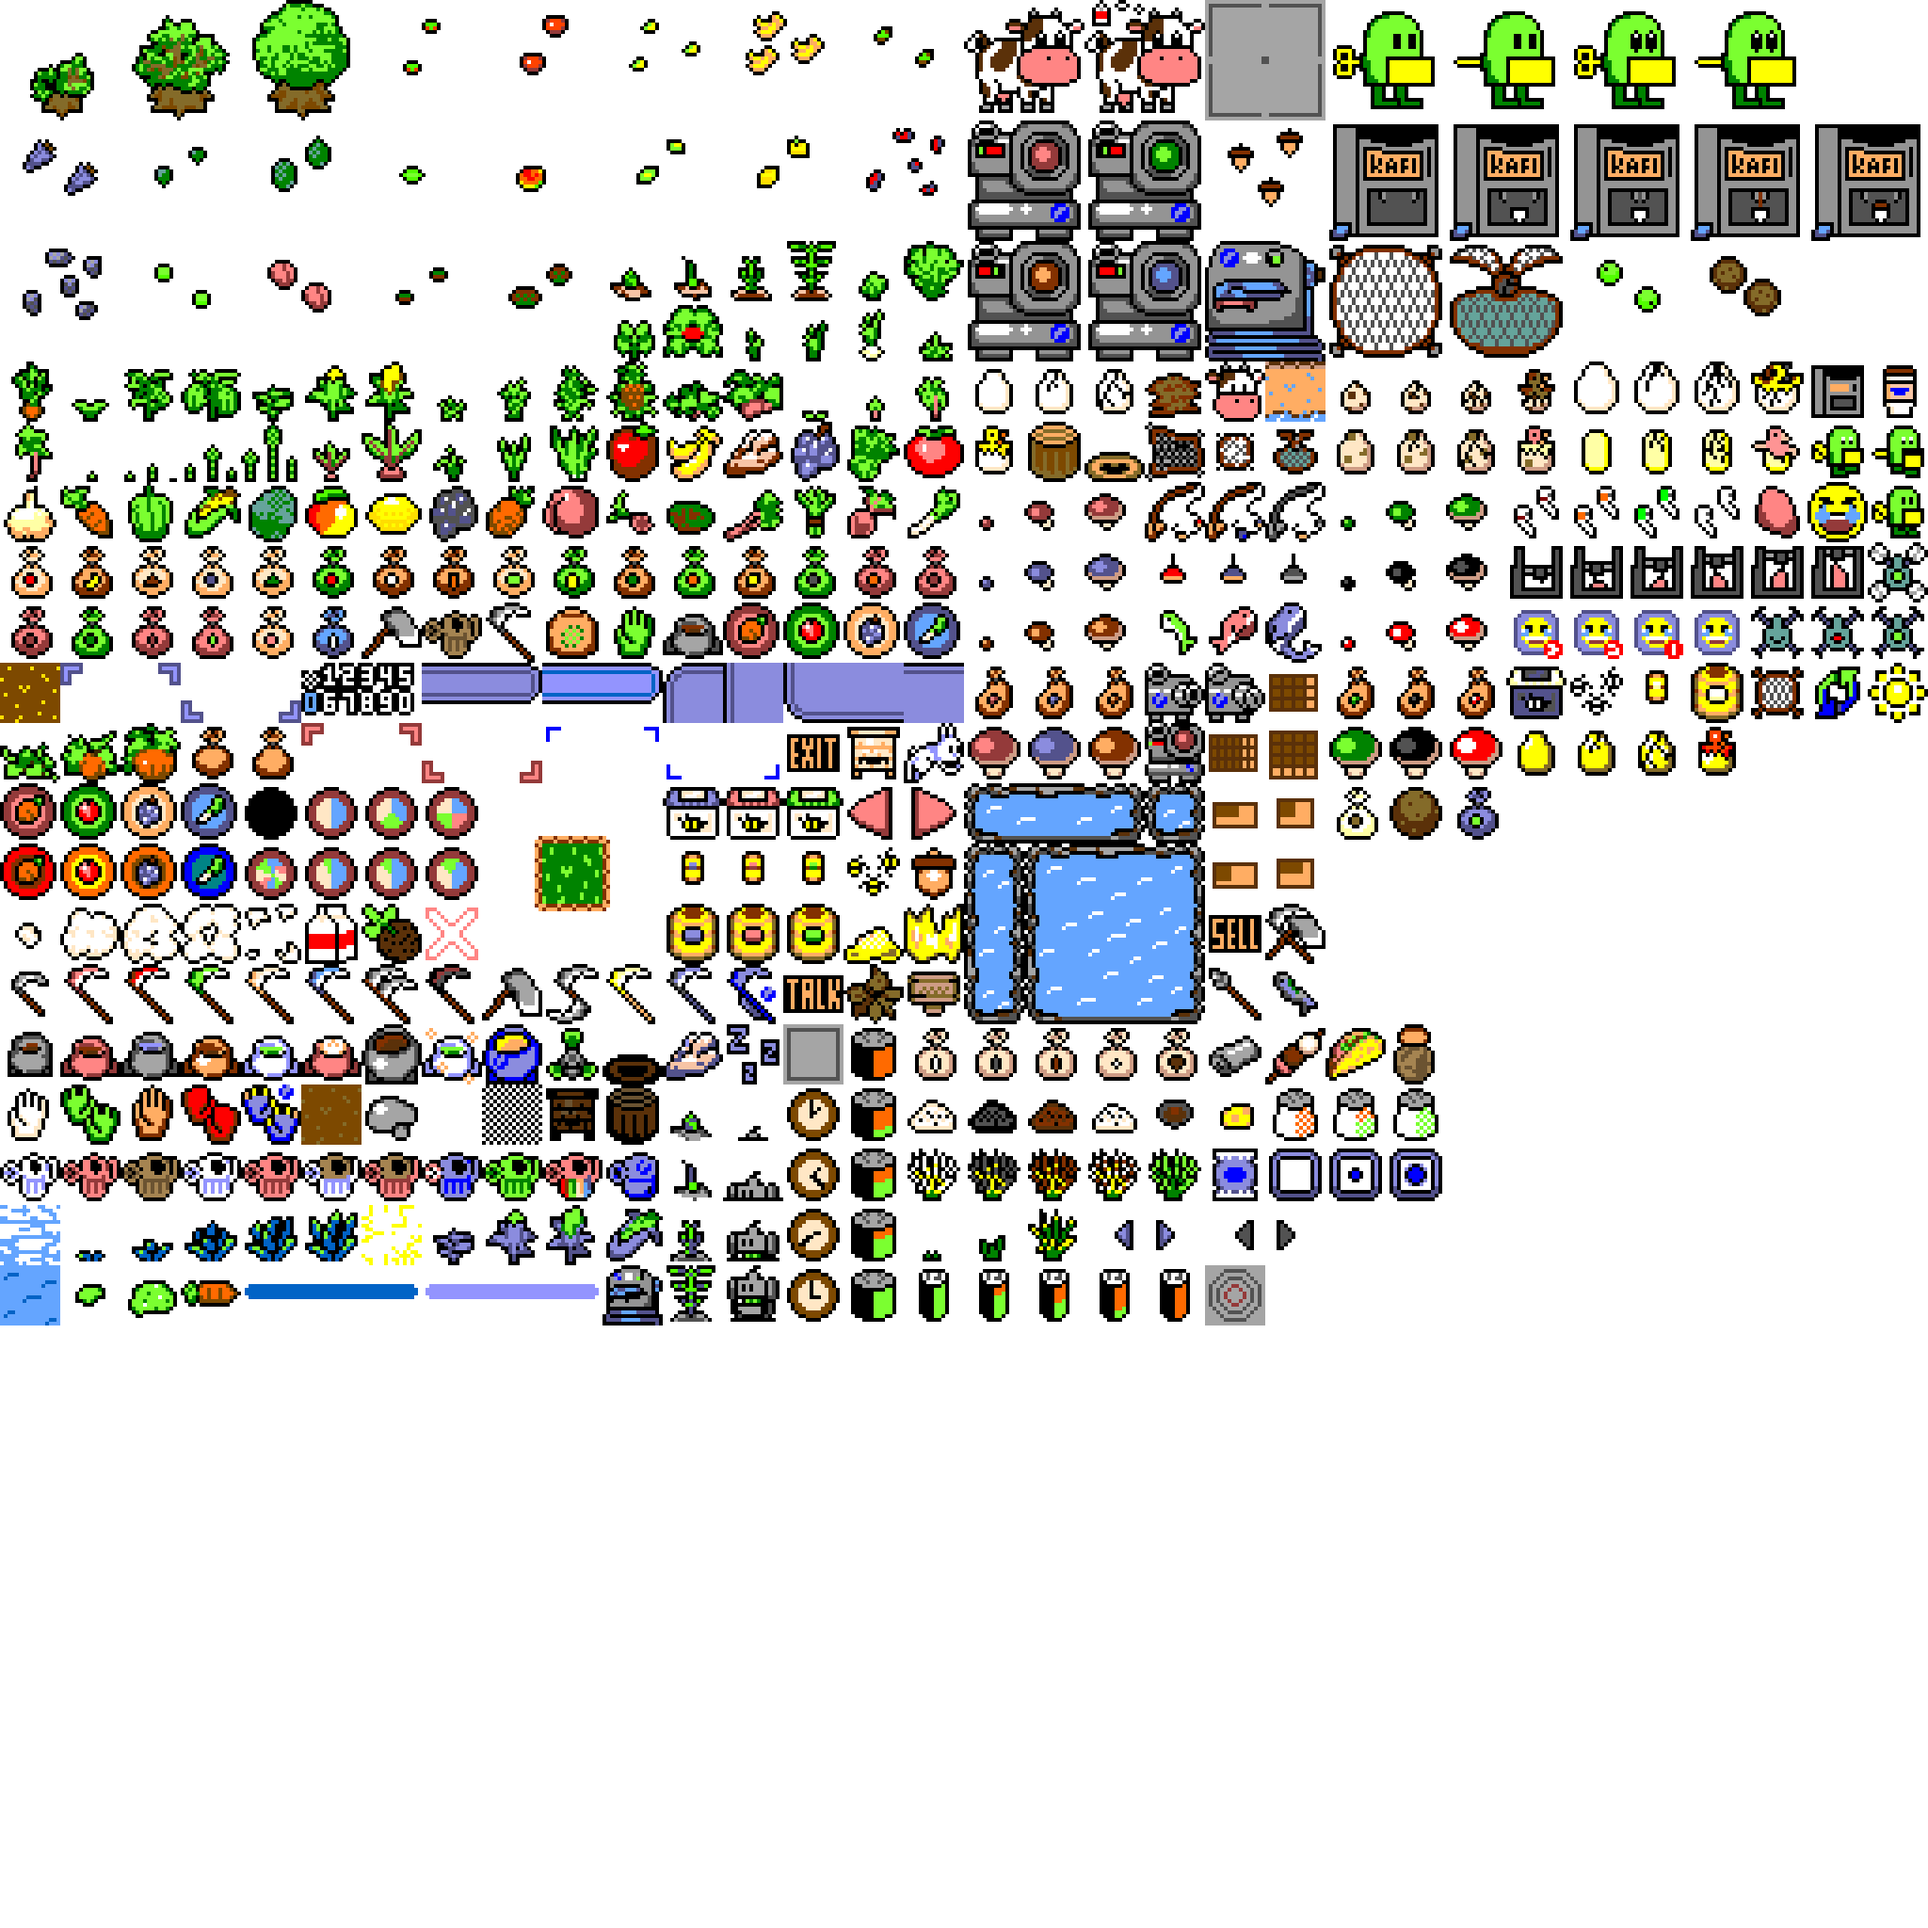
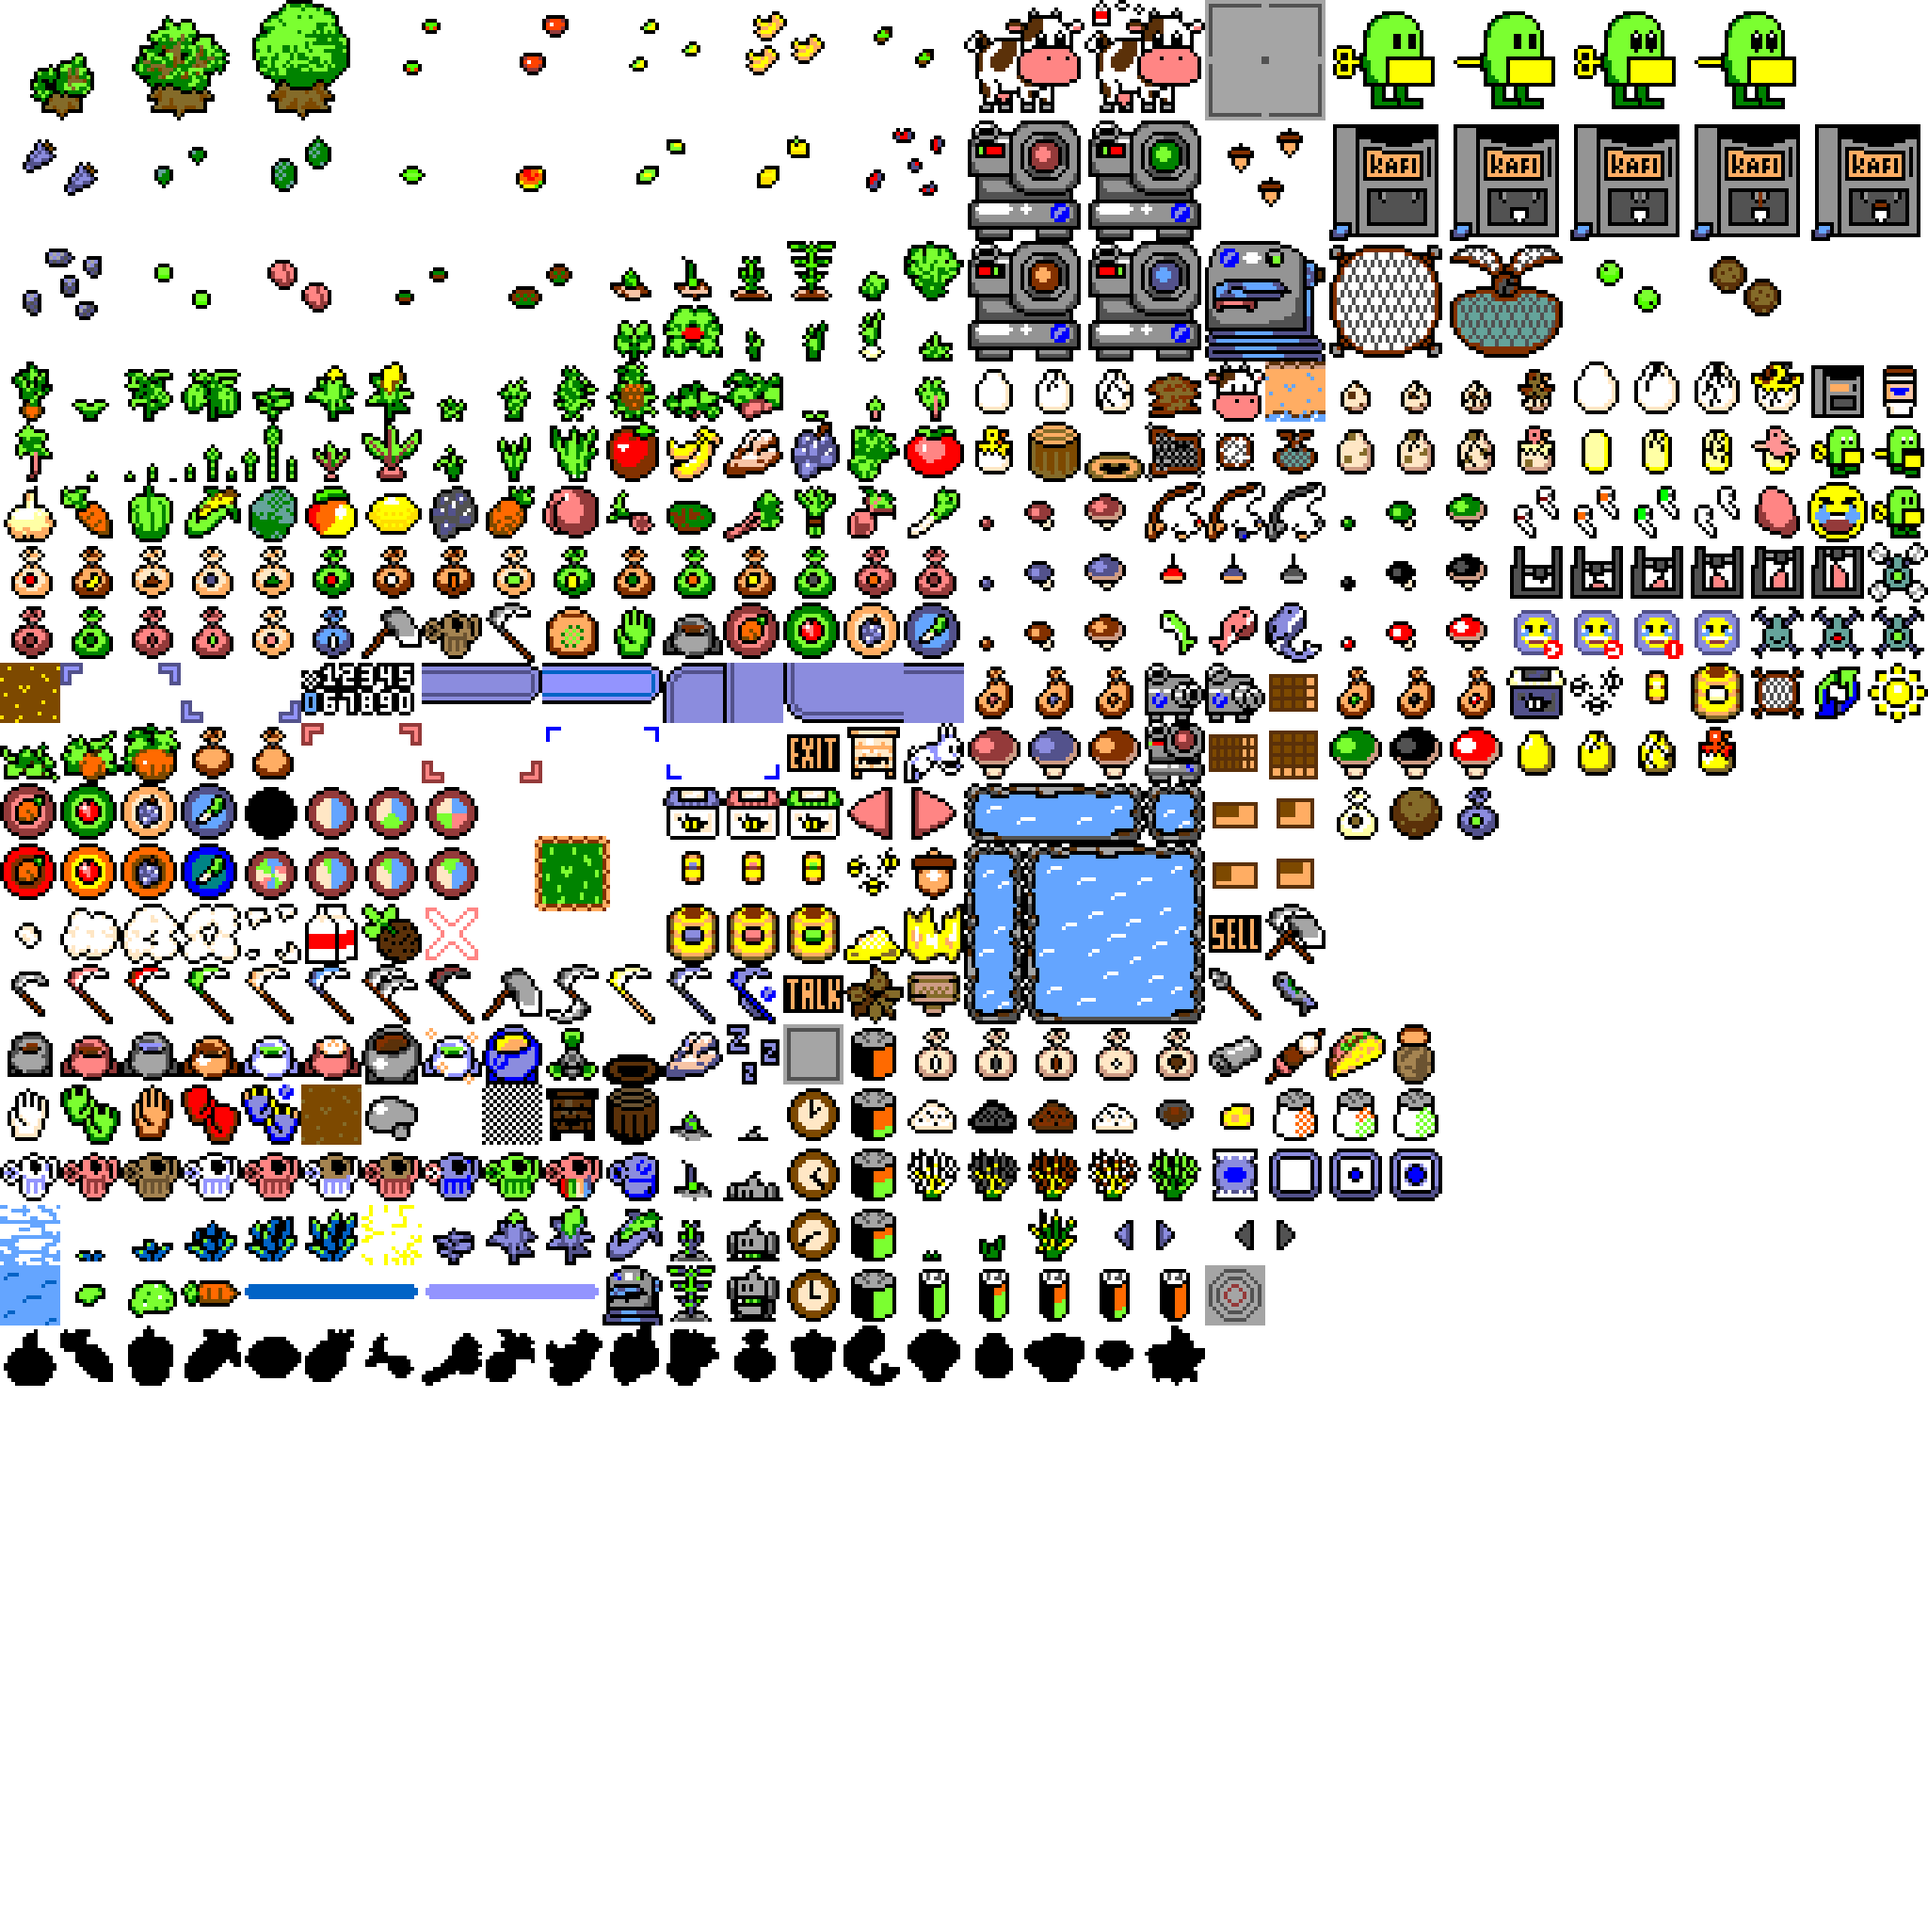
added transition animation.

Changed region(s): [[0.0, 0.6875, 0.625, 0.7188]]

diff --git a/js/rendering.js b/js/rendering.js
@@ -25,8 +25,12 @@ var gfx = {
 
     clearLayer: function(key) { gfx.ctx[key].clearRect(0, 0, gfx.canvasWidth, gfx.canvasWidth); },
     clearSome: function(keys) { for(var i = 0; i < keys.length; i++) { gfx.clearLayer(keys[i]); } },
-    clearAll: function() { for(var key in gfx.ctx) { gfx.clearLayer(key); } },
-
+    clearAll: function(includingTutorial) {
+        for(var key in gfx.ctx) {
+            if(key === "tutorial" && !includingTutorial) { continue; } 
+            gfx.clearLayer(key);
+        }
+    },
     getSaveFileImage: function() {
         var mapImg = gfx.spritesheets["maps/" + worldmap.mapName];
         var offset = {
@@ -48,7 +52,14 @@ var gfx = {
         img.src = encodedImg;
         img.onload = function() { gfx.ctx["menutext"].drawImage(this, 700, 14, 192, 128); };
     },
-
+    drawTransitionImage: function(spritename, x, y, mult) {
+        var data = spriteData.names[spritename];
+        var sheet = gfx.spritesheets["sheet"];
+        var size = 16;
+        var delta = size * mult * 0.5;
+        gfx.drawImage(gfx.ctx["tutorial"], sheet, data[0] * size, data[1] * size, size, size, x * size - delta, y * size - delta, size * mult, size * mult);
+        //gfx.drawSprite("sheet", data[0], data[1], x * 16, y * 16, "tutorial" data.length ,== 3);
+    },
     drawTileToGrid: function(spritename, x, y, layer) {
         var data = spriteData.names[spritename];
         gfx.drawSprite("sheet", data[0], data[1], x * 16, y * 16, layer, data.length == 3);

diff --git a/js/main.js b/js/main.js
@@ -54,10 +54,11 @@ var game = {
     },
     transition: function(from, to, arg) {
         if(this.currentInputHandler.isTutorial) { return tutorial.transition(from, to, arg); }
-        this.currentInputHandler = to;
+        game.startTransitionAnim(1, from, to, arg);
+        /*this.currentInputHandler = to;
         from.clean();
         if(!from.freeMovement || !to.freeMovement) { input.clearAllKeys(); }
-        to.setup(arg);
+        to.setup(arg);*/
         return true;
     },
     initListeners: function() {

diff --git a/js/gamedata/spritedata.js b/js/gamedata/spritedata.js
@@ -101,6 +101,7 @@ var spriteData = {
             spriteData.names["titleSel" + i] = [4 + i, 21];
             spriteData.names["titleSelActive" + i] = [7 + i, 21];
         }
+        for(var i = 0; i < 20; i++) { spriteData.names["trns" + i] = [i, 22]; }
     },
     names: {
         "gmocorn": [10, 20],
